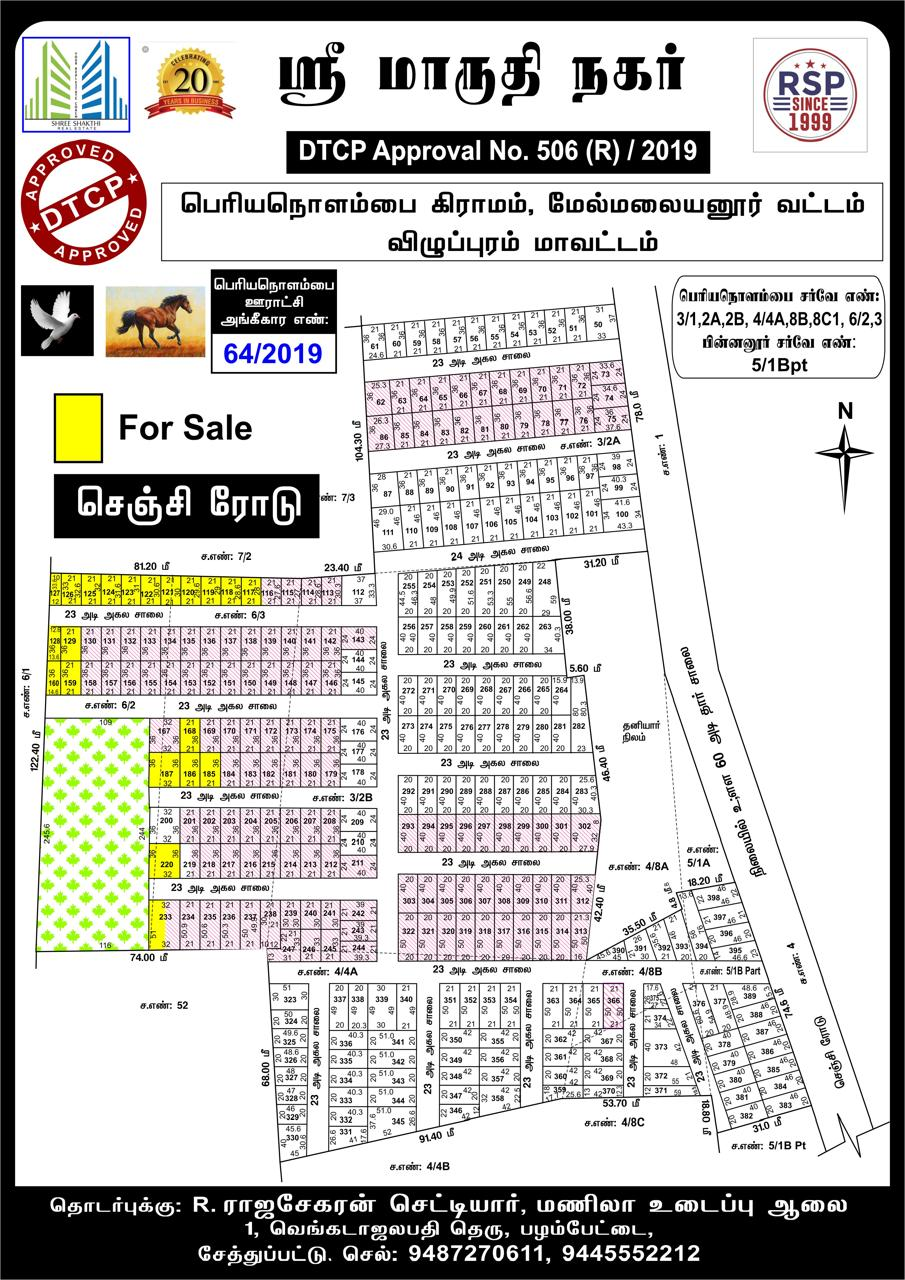
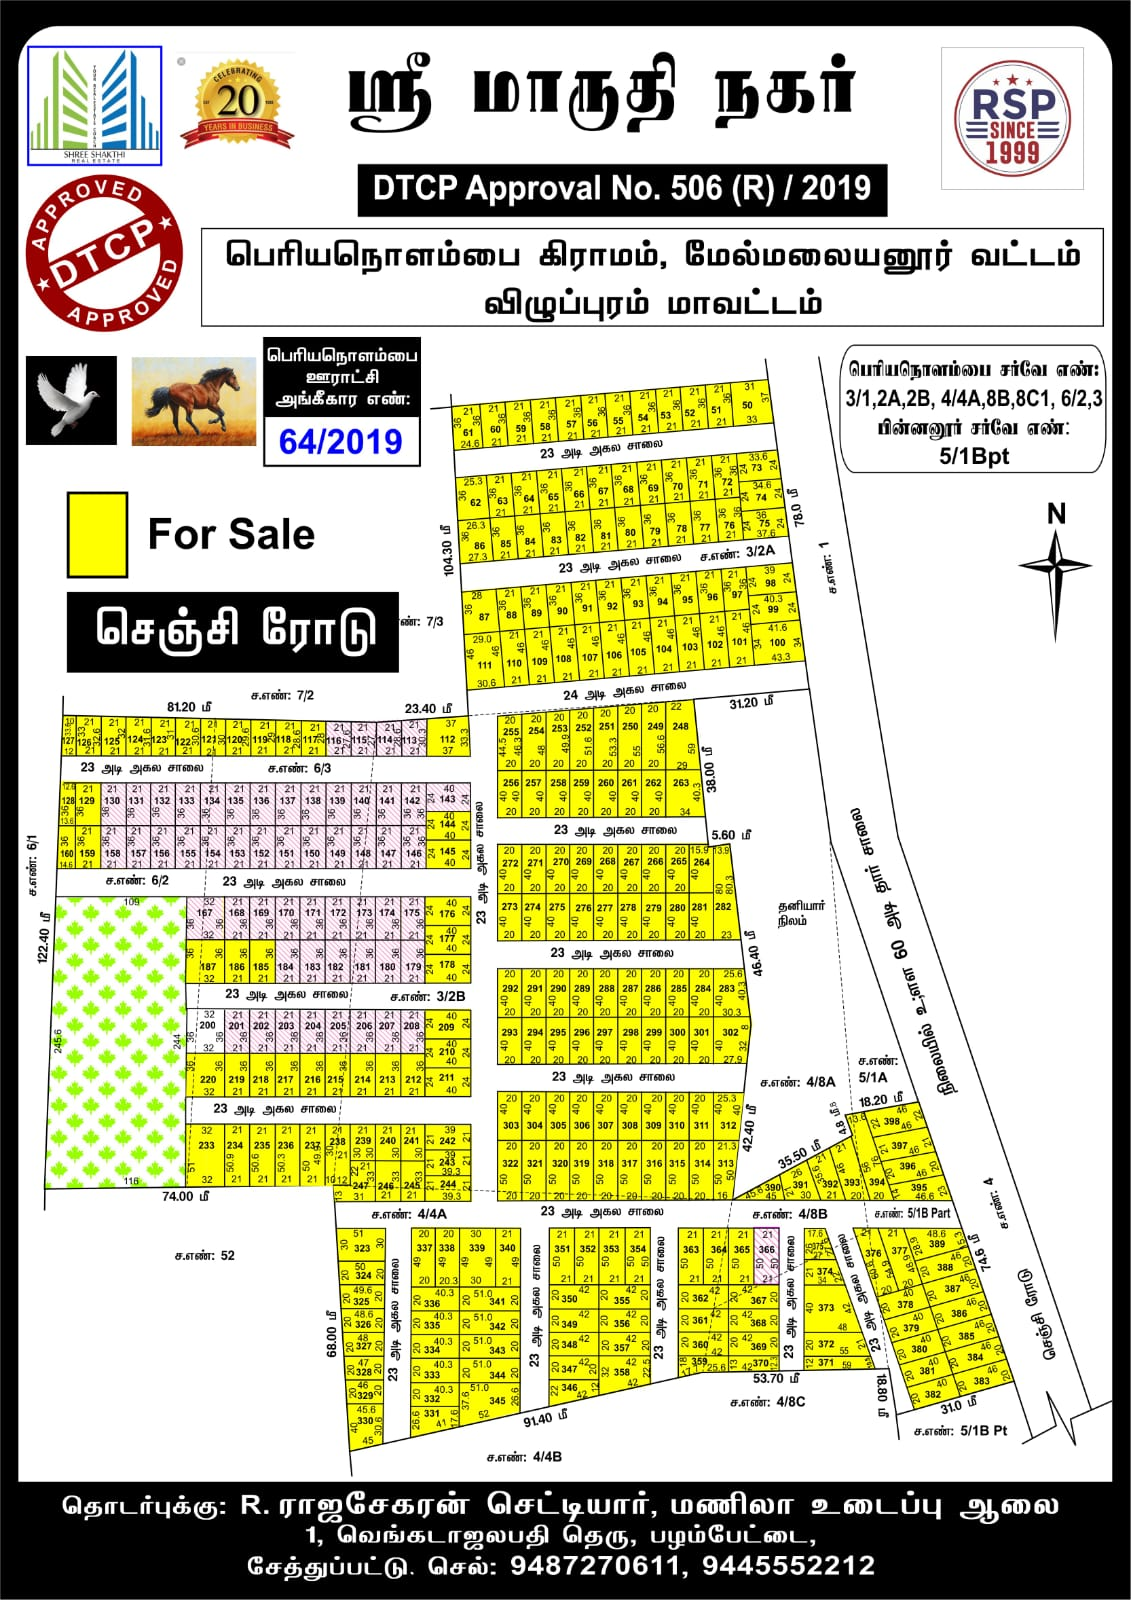
changed new layout map for both maruthi nagar and maruthi nagar 2

diff --git a/src/components/ProjectShowcase.tsx b/src/components/ProjectShowcase.tsx
@@ -18,7 +18,7 @@ import anandamnagar from "@/assets/anandam nagar.png";
 import udhayamNagar from "@/assets/udhayam nagar.png";
 import laxminagar from "@/assets/laxmi nagar.png";
 import srinivasaNagar from "@/assets/srinivasa nagar.png";
-import maruthiNagar from "@/assets/maruthi nagar.png";
+import maruthiNagar from "@/assets/maruthi-nagar.jpeg";
 import tulasivanam from "@/assets/tulasi vanam.png";
 import sairamnagar from "@/assets/sairam nagar.png";
 import maruthinagarextended from "@/assets/maruthi nagar extended.png";
